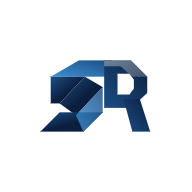
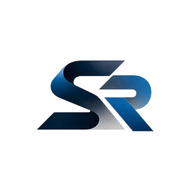
App 2026.11.19b: ícone da aba e do app com o SR do menu
Favicon e ícones do app refeitos a partir de imagens/logo.png, num quadrado branco
como no menu (no escuro da aba o azul-marinho sumia). Endereços com ?v=20261119 para
o navegador buscar os novos. Documentação: padrão de multa e juros dos boletos e marca
na página de pagamento do Asaas.

Changed region(s): [[0.1875, 0.3125, 0.8125, 0.6875]]

diff --git a/index.html b/index.html
@@ -6,8 +6,8 @@
   <title>Soluções Rápidas — Manutenção predial em Joinville e região</title>
   <meta name="description" content="Manutenção predial para condomínios residenciais e comerciais, síndicos, administradoras e empresas em Joinville e região. Atendimento planejado, serviço limpo e histórico completo do imóvel." />
   <meta name="theme-color" content="#0B1E3D" />
-  <link rel="icon" href="icons/favicon.png" />
-  <link rel="apple-touch-icon" href="icons/icon-192.png" />
+  <link rel="icon" href="icons/favicon.png?v=20261119" />
+  <link rel="apple-touch-icon" href="icons/icon-192.png?v=20261119" />
 
   <!-- Duas famílias só, e poucos pesos: a página tem que abrir rápido no
        celular. Saira ecoa o formato quadrado/geométrico do logo; Inter

diff --git a/service-worker.js b/service-worker.js
@@ -1,5 +1,5 @@
 // Sobe junto com o APP_VERSION do app.js a cada publicação.
-const CACHE_NAME = "solucoes-rapidas-2026.11.19a";
+const CACHE_NAME = "solucoes-rapidas-2026.11.19b";
 // "./" e "./index.html" são a landing institucional; "./sistema.html" é o
 // app de verdade (painel), que antes ocupava a raiz; "./conta.html" é a
 // entrada por e-mail e senha, criar conta e recuperar senha.
@@ -21,9 +21,9 @@ const APP_SHELL = [
   "./conta.css",
   "./conta.js",
   "./manifest.json",
-  "./icons/icon-192.png",
-  "./icons/icon-512.png",
-  "./icons/favicon.png",
+  "./icons/icon-192.png?v=20261119",
+  "./icons/icon-512.png?v=20261119",
+  "./icons/favicon.png?v=20261119",
 ];
 
 self.addEventListener("install", (event) => {

diff --git a/conta.html b/conta.html
@@ -6,8 +6,8 @@
   <title>Entrar — Soluções Rápidas</title>
   <meta name="robots" content="noindex, nofollow" />
   <meta name="theme-color" content="#f4f7fa" />
-  <link rel="icon" href="icons/favicon.png" />
-  <link rel="apple-touch-icon" href="icons/icon-192.png" />
+  <link rel="icon" href="icons/favicon.png?v=20261119" />
+  <link rel="apple-touch-icon" href="icons/icon-192.png?v=20261119" />
 
   <link rel="preconnect" href="https://fonts.googleapis.com" />
   <link rel="preconnect" href="https://fonts.gstatic.com" crossorigin />

diff --git a/sistema.html b/sistema.html
@@ -9,8 +9,8 @@
   <meta name="robots" content="noindex, nofollow" />
   <meta name="theme-color" content="#0f1220" />
   <link rel="manifest" href="manifest.json" />
-  <link rel="icon" href="icons/favicon.png" />
-  <link rel="apple-touch-icon" href="icons/icon-192.png" />
+  <link rel="icon" href="icons/favicon.png?v=20261119" />
+  <link rel="apple-touch-icon" href="icons/icon-192.png?v=20261119" />
   <link rel="stylesheet" href="style.css" />
 </head>
 <body>

diff --git a/app.js b/app.js
@@ -68,7 +68,7 @@ function urlWebhook(caminho) {
 // Sobe junto com o CACHE_NAME do service-worker.js a cada publicação. Fica
 // visível no rodapé do menu para dar uma resposta rápida à pergunta
 // "será que a atualização já chegou neste aparelho?".
-const APP_VERSION = "2026.11.19a";
+const APP_VERSION = "2026.11.19b";
 
 // ----- Sessão (login por e-mail e senha) -----
 //

diff --git a/CONTEXTO.md b/CONTEXTO.md
@@ -6122,3 +6122,20 @@ para clientes cadastrados no CNPJ 2.
   (`codigoEmissorDoDocumento`). Nome digitado à mão ou mexido depois sai pelo CNPJ 1.
 - **Pelo chat:** `gerar_documento.py` (skill pdf-solucoes-rapidas) tem o PIX do CNPJ 2; a skill emitir-nfse traz o
   bloco do CNPJ 2.
+
+## Padrão de multa e juros dos boletos (19/11/2026)
+
+Regra do dono: todo boleto, nas duas contas Asaas, sai com **multa de 2%** e **juros de 1% ao mês**; o vencimento é o
+prazo combinado com cada cliente. O Asaas não guarda isso como padrão da conta pela API: vai em cada cobrança
+(`fine: { value: 2 }`, `interest: { value: 1 }`). A geração de boletos (passo futuro, lê `Gera_Boleto`) deve mandar
+sempre os dois campos. Até 19/11/2026 nenhuma das contas tinha cobrança criada.
+
+## Ícone novo da aba e do app + marca na página de pagamento do Asaas (19/11/2026, versão 2026.11.19b)
+
+- **Ícones:** `icons/favicon.png` (64), `icon-192.png` e `icon-512.png` refeitos a partir de `imagens/logo.png` (o SR do
+  menu), num quadrado branco como `.sidebar-marca-simbolo` (no escuro da aba o azul-marinho sumia). O favicon tem cantos
+  arredondados; os do app (maskable) são quadrados com o SR em 62% da largura. Endereços com `?v=20261119` nas três
+  páginas, no manifest e no APP_SHELL, para o navegador não ficar com o ícone antigo.
+- **Asaas (as duas contas):** página de pagamento personalizada pela API (`POST /myAccount/paymentCheckoutConfig`): topo
+  branco com a logo (SR + "SOLUÇÕES RÁPIDAS / MANUTENÇÃO PREDIAL"), faixa do valor `#0F2747`, letras brancas.
+  Aprovado automaticamente na hora. Antes: padrão azul (`#007AB4` / `#1DA9DA`), sem logo.
